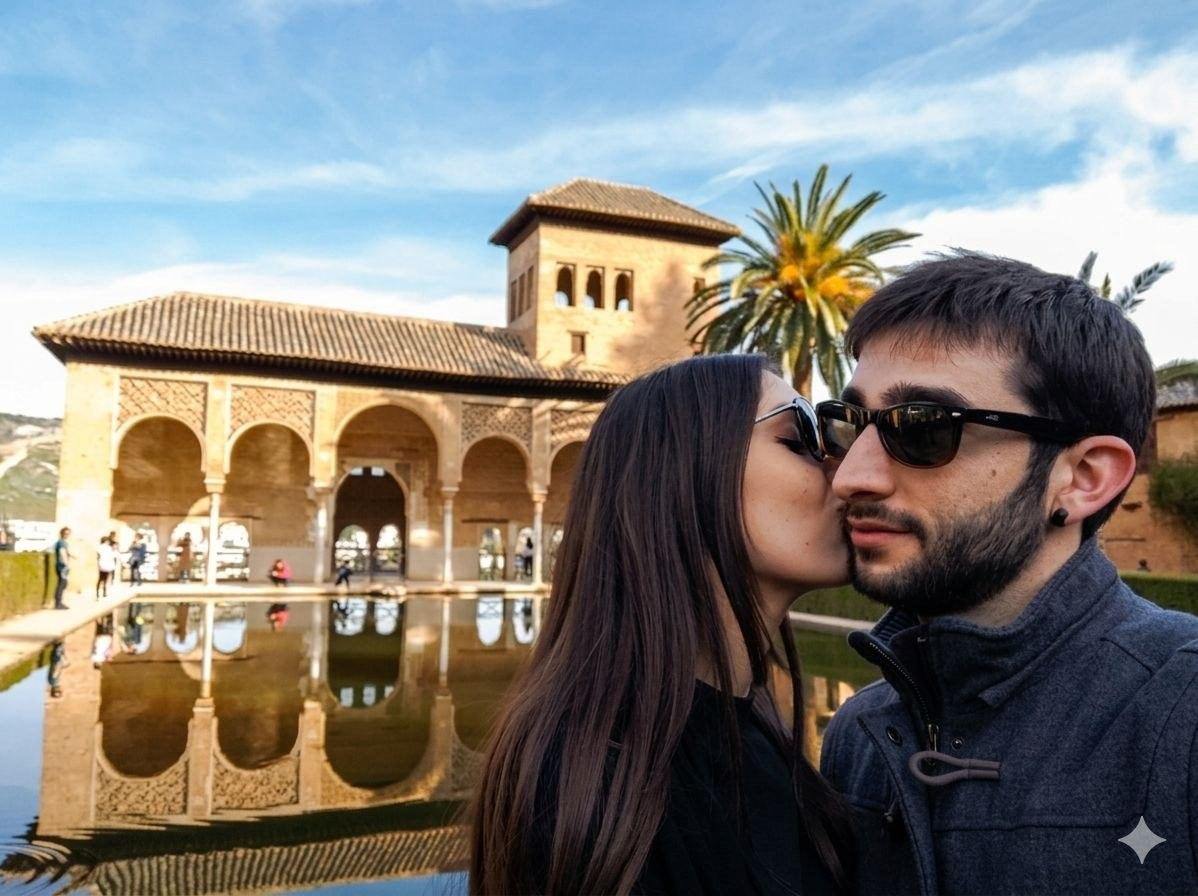
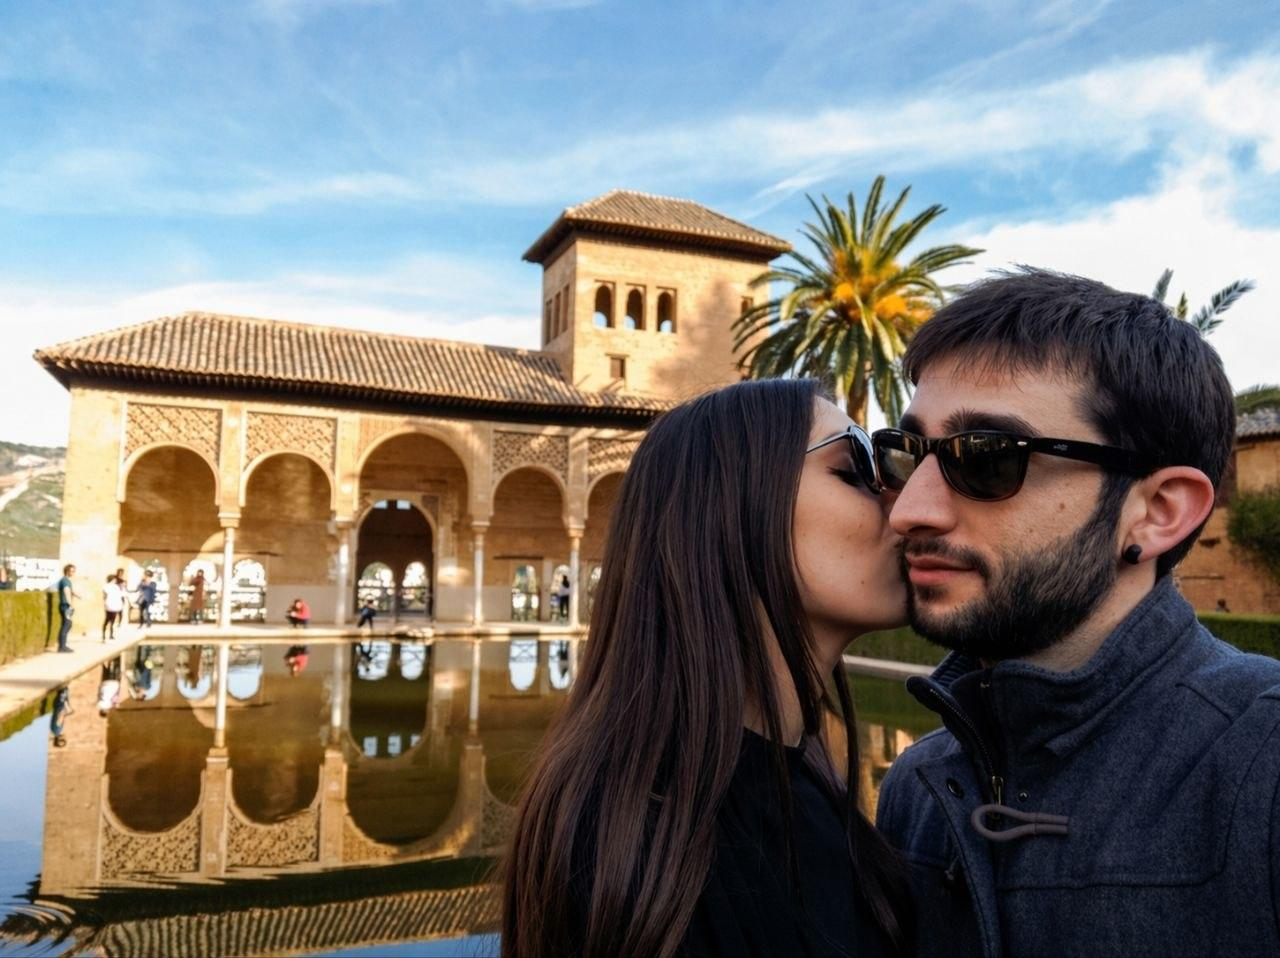
ultimos cambios

diff --git a/index.html b/index.html
@@ -39,27 +39,27 @@
             nombres: "Elena y Antonio",
 
             // Fecha del evento
-            fechaEvento: "2026-09-26T13:00:00", // Formato: YYYY-MM-DDTHH:mm:ss
-            fechaTexto: "26 de Septiembre, 2026",
-            hora: "13:00 hrs",
+            fechaEvento: "2026-09-26T12:30:00", // Formato: YYYY-MM-DDTHH:mm:ss
+            fechaTexto: "26 de Septiembre 2026",
+            hora: "12:30 hrs",
 
             // Ceremonia Civil
             nombreCeremonia: "Ayuntamiento de Pozuelo",
-            horaCeremonia: "12:00 hrs",
+            horaCeremonia: "12:30 hrs",
             direccionCeremonia: "Calle Mayor, 25, 02327 Pozuelo, Albacete",
             urlMapsCeremonia: "https://maps.app.goo.gl/bK4DTm7J2iDzxEzS8",
             imagenCeremonia: "imagenes/ayuntamiento.jpg",
 
             // Lugar de Celebración
             nombreCelebracion: "Restaurante Montecristo",
-            horaCelebracion: "13:00 hrs",
+            horaCelebracion: "13:30 hrs",
             direccionCelebracion: "P.º de la Libertad, 14, 02326 San Pedro, Albacete",
             urlMapsCelebracion: "https://maps.app.goo.gl/wYJxrdjDkqTY11Cf7",
             imagenCelebracion: "imagenes/lugar.jpg",
 
             // Textos personalizados
             mensajePrincipal: "Nos casamos y queremos compartir este día especial contigo",
-            historia: "Después de 9 años juntos, hemos decidido dar el siguiente paso. Nos encantaría que nos acompañes en este momento tan importante de nuestras vidas.",
+            historia: "Después de tantos momentos juntos, hemos decidido dar el siguiente paso. Nos encantaría que nos acompañes en este momento tan importante de nuestras vidas.",
 
             // Imágenes (coloca tus fotos en la carpeta 'imagenes')
             imagenPortada: "imagenes/portada.png",
@@ -192,7 +192,7 @@
 
     <!-- FOOTER -->
     <footer class="footer">
-        <p>Con mucho amor ❤️</p>
+        <p>Gracias por acompañarnos en este día tan especial para nosotros</p>
         <p id="footerNombres"></p>
     </footer>
 

diff --git a/script.js b/script.js
@@ -16,8 +16,10 @@ document.addEventListener('DOMContentLoaded', function() {
 // ========================================
 
 function cargarConfiguracion() {
-    // Nombres
-    document.getElementById('nombresNovios').textContent = CONFIG.nombres;
+    // Nombres - Formato: Elena arriba, y en medio, Antonio abajo
+    const nombres = CONFIG.nombres.split(' y ');
+    const nombreFormateado = `${nombres[0]}<br>y<br>${nombres[1]}`;
+    document.getElementById('nombresNovios').innerHTML = nombreFormateado;
     document.getElementById('footerNombres').textContent = CONFIG.nombres;
 
     // Fecha